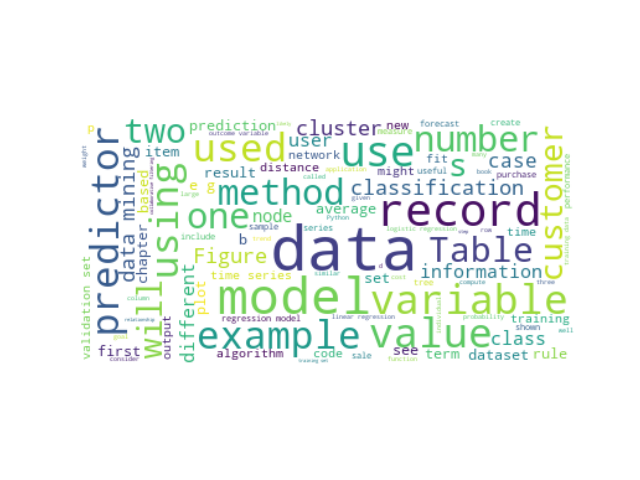
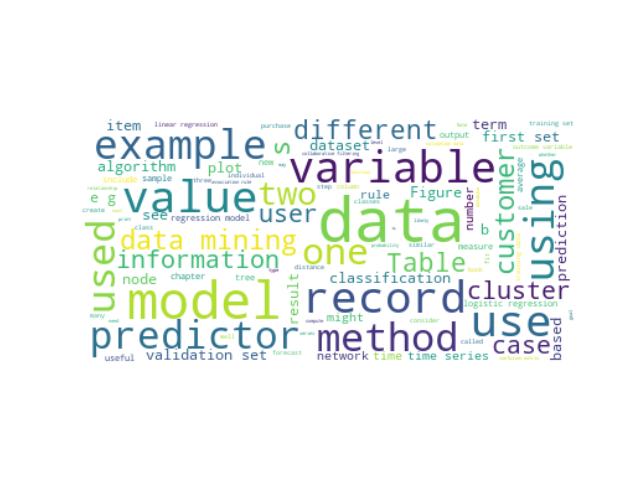
Remove common words

Changed region(s): [[0.125, 0.25, 0.9062, 0.7812]]

diff --git a/WordCloud/text_to_wordcloud.py b/WordCloud/text_to_wordcloud.py
@@ -1,14 +1,20 @@
 from wordcloud import WordCloud
 import matplotlib.pyplot as plt
+from nltk.corpus import stopwords
 
 # Read the content of the text file into a string variable
 text = open('Data_Mining.txt', encoding="utf8").read()
 # Note: To resolve the ('charmap' codec can't decode) error, use encoding="utf8" when reading the code.
 
+# Stopwords are words that are frequently excluded from text analysis because they have no significant meaning.
+stop_words = set(stopwords.words('english'))
+# removing all words in the original text variable that are in the stopwords list.
+cleaned_text = [word for word in text.split() if word not in stop_words]
+
 # Create a WordCloud object with the desired parameters
 wordcloud = WordCloud(max_font_size=50, max_words=100, background_color="white")
 # Generate the word cloud based on the text content
-wordcloud.generate(text)
+wordcloud.generate(" ".join(cleaned_text))
 
 # Display the word cloud image using Matplotlib
 plt.imshow(wordcloud, interpolation='bilinear')
